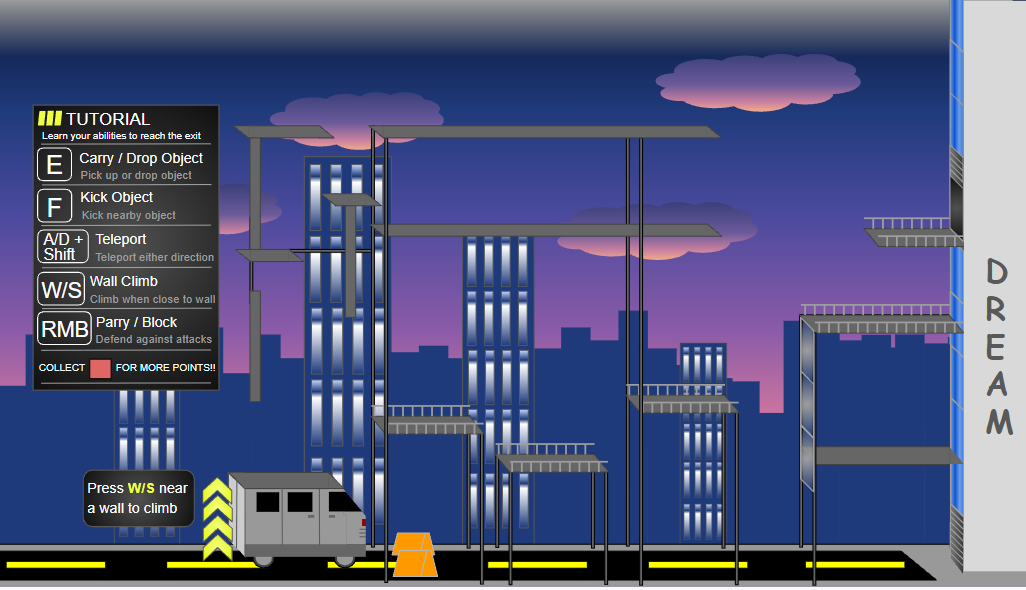
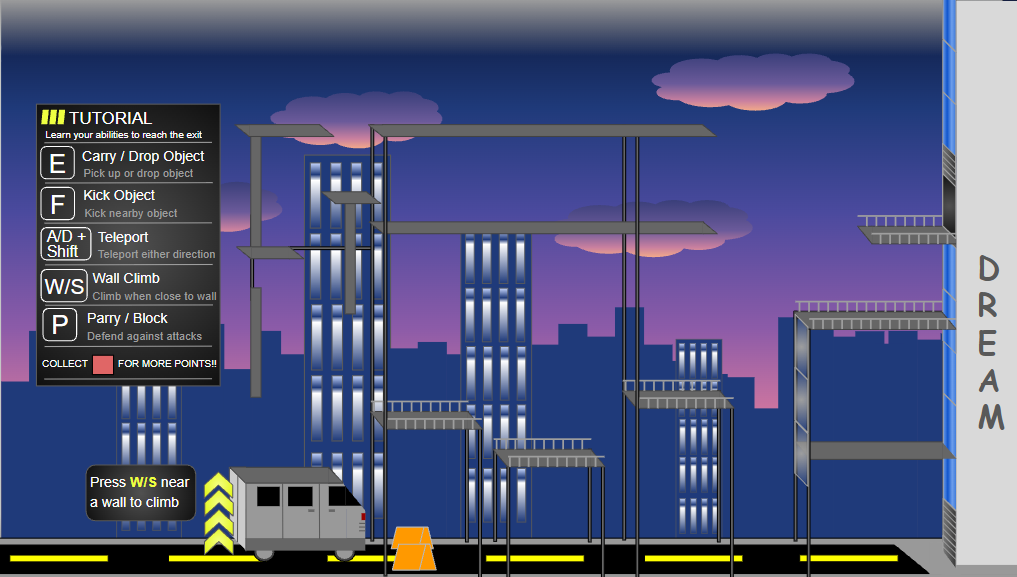
shield become p

diff --git a/Team project/Project New/game_mechanics.c b/Team project/Project New/game_mechanics.c
@@ -189,7 +189,7 @@ void Shield_Update(void) {
 	float dt = CP_System_GetDt();
 
 	/* --- Right click: summon shield (can't recast while one is up) --- */
-	if (CP_Input_MouseTriggered(MOUSE_BUTTON_RIGHT) && !shieldActive) {
+	if (CP_Input_KeyTriggered(KEY_P) && !shieldActive) {
 		shieldActive = 1;
 		shieldTimer = 0.0f;
 	}
